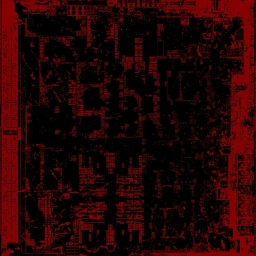
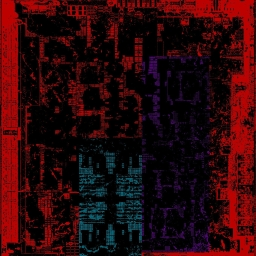
Better RNG

diff --git a/source/CPURT.cpp b/source/CPURT.cpp
@@ -1124,6 +1124,24 @@ inline uint32_t seed(int idx, int frame)
     return (uint32_t)(idx * 1973u ^ frame * 9277u ^ 0x9e3779b9u) | 1u;
 }
 
+// V S E E B
+uint32x4_t seed_neon(uint32_t x, uint32_t y, uint32_t frame)
+{
+    // Create base seeb
+    uint32_t base = (x * 1973 + y * 9277 + frame * 26699) | 1;
+
+    // load onto 4 lanes
+    uint32x4_t vBase = vdupq_n_u32(base);
+
+    // Add offsets between lanes
+    static const uint32_t offsets[4] = {0, 1, 2, 3};
+    uint32x4_t vOffsets = vld1q_u32(offsets);
+
+    return vaddq_u32(vBase, vOffsets);
+}
+
+
+
 //Pin threads to cores so the OS doesn't throw them around everywhere
 void pinThread(int core)
 {
@@ -1165,6 +1183,10 @@ void renderTile(int startY, int endY, int frameIndex)
     const float32x4_t half = vdupq_n_f32(0.5f);
     const float32x4_t two  = vdupq_n_f32(2.0f);
     const float32x4_t one  = vdupq_n_f32(1.0f);
+
+    // Constraints for LCG RNG
+    const uint32x4_t vA = vdupq_n_u32(1664525);
+    const uint32x4_t vC = vdupq_n_u32(1013904223);
 
     for(int y = startY; y < endY; y++){
 
@@ -1212,17 +1234,21 @@ void renderTile(int startY, int endY, int frameIndex)
         rd1 = normalizeFast(rd1);
 
         // Seed RNG, do this twice so each lane gets its own  seed
-        uint32_t seeds0[4] = {
-            seed(base0+0, currentFrame), seed(base0+1, currentFrame),
-            seed(base0+2, currentFrame), seed(base0+3, currentFrame)
-        };
-        uint32x4_t rng0 = vld1q_u32(seeds0);
+        // Setup base seeds
+        uint32_t baseIdx = (y * 9277 + currentFrame * 26699) | 1;
+        uint32x4_t vBase = vdupq_n_u32(baseIdx);
 
-        uint32_t seeds1[4] = {
-            seed(base1+0, currentFrame), seed(base1+1, currentFrame),
-            seed(base1+2, currentFrame), seed(base1+3, currentFrame)
-        };
-        uint32x4_t rng1 = vld1q_u32(seeds1);
+        // Gen offsets
+        static const uint32_t xOff0[4] = { (uint32_t)x*1973, (uint32_t)(x+1)*1973, (uint32_t)(x+2)*1973, (uint32_t)(x+3)*1973 };
+        static const uint32_t xOff1[4] = { (uint32_t)(x+4)*1973, (uint32_t)(x+5)*1973, (uint32_t)(x+6)*1973, (uint32_t)(x+7)*1973 };
+
+        // Finalize seeds
+        uint32x4_t rng0 = vaddq_u32(vBase, vld1q_u32(xOff0));
+        uint32x4_t rng1 = vaddq_u32(vBase, vld1q_u32(xOff1));
+
+        // entropy go brr
+        rng0 = vmlaq_u32(vC, rng0, vA);
+        rng1 = vmlaq_u32(vC, rng1, vA);
 
         vec3f col0[4], col1[4];
         trace8(ro0, rd0, ro1, rd1, col0, col1, rng0, rng1);
